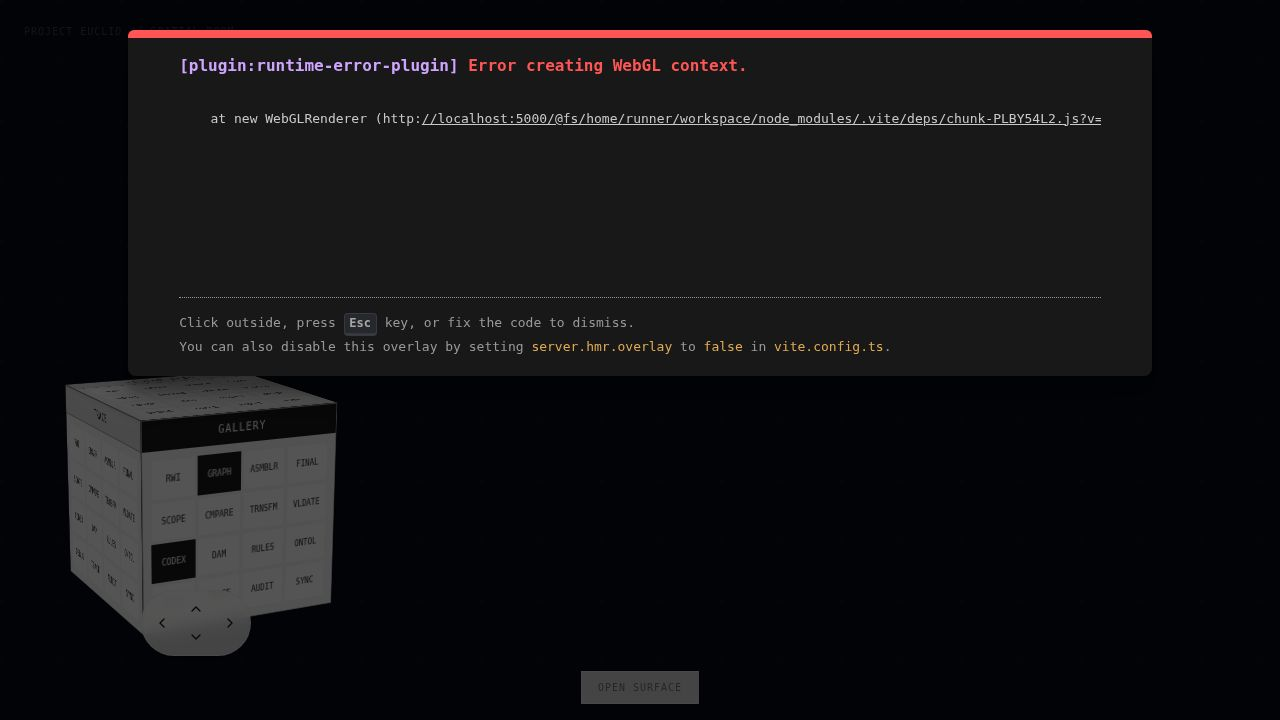
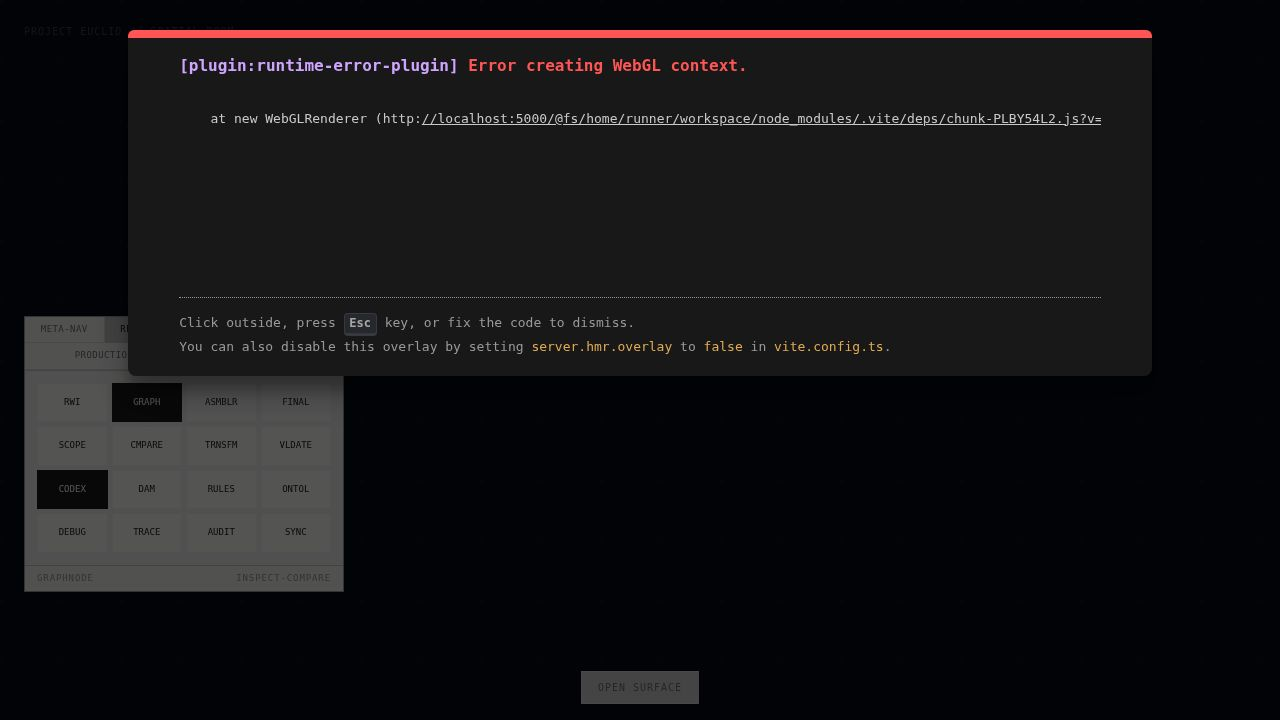
Remove persistent branding and simplify interactive elements on the canvas
Removes the "MORPHOLOGY" title overlay and the DockContainer from InfiniteCanvas.tsx, and refactors PrismCube.tsx to use a simpler workspace selection mechanism.

Replit-Commit-Author: Agent
Replit-Commit-Session-Id: 0d00d434-be47-4a2b-b53d-cc99ae812125
Replit-Commit-Checkpoint-Type: full_checkpoint
Replit-Commit-Event-Id: a1974f45-a87d-4491-b77a-21a2447602fe
Replit-Commit-Screenshot-Url: https://storage.googleapis.com/screenshot-production-us-central1/83ee72e2-2eb7-40ef-ab99-fc5b93d9bf2b/0d00d434-be47-4a2b-b53d-cc99ae812125/g4WBXSQ
Replit-Helium-Checkpoint-Created: true

Changed region(s): [[0.0, 0.4278, 0.2812, 0.9167]]

diff --git a/client/src/studio/prism/PrismCube.tsx b/client/src/studio/prism/PrismCube.tsx
@@ -1,27 +1,15 @@
-import { useState } from 'react';
 import { useStudioStore, EngineId, FunctionalityId } from '../state/useStudioStore';
-import { ChevronLeft, ChevronRight, ChevronUp, ChevronDown } from 'lucide-react';
 
 export function PrismCube() {
   const { prismContext, setPrismContext } = useStudioStore();
   
-  // Track continuous rotation to avoid snapping back when angles pass 360
-  const [rotation, setRotation] = useState({ x: -15, y: 25 });
-
-  const handleRotate = (direction: 'left' | 'right' | 'up' | 'down') => {
-    if (direction === 'left') setRotation(r => ({ ...r, y: r.y - 90 }));
-    if (direction === 'right') setRotation(r => ({ ...r, y: r.y + 90 }));
-    if (direction === 'up') setRotation(r => ({ ...r, x: r.x + 90 }));
-    if (direction === 'down') setRotation(r => ({ ...r, x: r.x - 90 }));
-  };
-
-  const faces = [
-    { id: 'meta-navigation', label: 'Meta-Nav', transform: 'translateZ(100px)' },
-    { id: 'research-drafting', label: 'Research', transform: 'rotateY(90deg) translateZ(100px)' },
-    { id: 'drafting-building', label: 'Drafting', transform: 'rotateY(180deg) translateZ(100px)' },
-    { id: 'building-production', label: 'Building', transform: 'rotateY(-90deg) translateZ(100px)' },
-    { id: 'production-final', label: 'Production', transform: 'rotateX(90deg) translateZ(100px)' },
-    { id: 'inspect-repair-debug', label: 'Debug', transform: 'rotateX(-90deg) translateZ(100px)' },
+  const workspaces = [
+    { id: 'meta-navigation', label: 'Meta' },
+    { id: 'research-drafting', label: 'Research' },
+    { id: 'drafting-building', label: 'Draft' },
+    { id: 'building-production', label: 'Build' },
+    { id: 'production-final', label: 'Produce' },
+    { id: 'inspect-repair-debug', label: 'Debug' },
   ];
 
   // Map 16 tools to combinations of engine and functionality for the store
@@ -44,81 +32,67 @@ export function PrismCube() {
     { label: "Sync", engine: "frontend-final-use", functionality: "search-scope" }
   ];
 
-  const handleCubieClick = (workspaceId: string, tool: typeof tools[0]) => {
-    // Update the global state with the new context
+  const handleToolClick = (tool: typeof tools[0]) => {
     setPrismContext({
-      workspace: workspaceId as any,
       engine: tool.engine,
       functionality: tool.functionality
     });
-    
-    // Ensure dock is visible when a tool is selected
-    useStudioStore.setState({ isDockVisible: true });
+  };
+
+  const handleWorkspaceChange = (workspaceId: string) => {
+    setPrismContext({ workspace: workspaceId as any });
   };
 
   return (
-    <div 
-      className="fixed bottom-32 left-24 z-50 pointer-events-auto"
-      style={{ perspective: '1200px' }}
-    >
-      <div 
-        className="w-[200px] h-[200px] relative transition-transform duration-700 ease-out"
-        style={{ 
-          transformStyle: 'preserve-3d',
-          transform: `rotateX(${rotation.x}deg) rotateY(${rotation.y}deg)`
-        }}
-      >
-        {faces.map((face) => (
-          <div 
-            key={face.id}
-            className="absolute w-full h-full bg-background/95 border border-primary/40 backdrop-blur-md flex flex-col overflow-hidden shadow-[0_0_30px_rgba(var(--primary),0.1)]"
-            style={{ 
-              transform: face.transform,
-              backfaceVisibility: 'hidden'
-            }}
-          >
-            {/* Face Header */}
-            <div className={`text-center font-mono text-[10px] uppercase tracking-widest py-1.5 shadow-inner border-b transition-colors
-              ${prismContext.workspace === face.id 
-                ? 'bg-primary text-primary-foreground border-primary' 
-                : 'bg-primary/10 text-primary border-primary/30'}`}
-            >
-              {face.label}
-            </div>
-            
-            {/* 16 Cubies (4x4 Grid) */}
-            <div className="grid grid-cols-4 grid-rows-4 gap-[2px] flex-1 p-2 bg-muted/20">
-              {tools.map((tool, i) => {
-                const isActive = prismContext.workspace === face.id && 
-                               prismContext.engine === tool.engine && 
-                               prismContext.functionality === tool.functionality;
-                
-                return (
-                  <button 
-                    key={i} 
-                    className={`border flex items-center justify-center text-[8px] font-mono transition-all duration-200 uppercase
-                      ${isActive 
-                        ? 'bg-primary text-primary-foreground border-primary shadow-[0_0_10px_rgba(var(--primary),0.5)]' 
-                        : 'bg-background/80 hover:bg-primary/50 text-foreground border-border/50'}`}
-                    onClick={() => handleCubieClick(face.id, tool)}
-                  >
-                    {tool.label}
-                  </button>
-                );
-              })}
-            </div>
-          </div>
-        ))}
-      </div>
-
-      {/* Orbit Controls */}
-      <div className="absolute -bottom-16 left-1/2 -translate-x-1/2 flex gap-2 bg-background/80 backdrop-blur-sm border border-border/50 p-1.5 rounded-full shadow-xl">
-        <button onClick={() => handleRotate('left')} className="p-1.5 text-primary hover:bg-primary/20 rounded-full transition-colors"><ChevronLeft className="w-4 h-4" /></button>
-        <div className="flex flex-col gap-1">
-          <button onClick={() => handleRotate('up')} className="p-1 text-primary hover:bg-primary/20 rounded-full transition-colors"><ChevronUp className="w-4 h-4" /></button>
-          <button onClick={() => handleRotate('down')} className="p-1 text-primary hover:bg-primary/20 rounded-full transition-colors"><ChevronDown className="w-4 h-4" /></button>
+    <div className="fixed bottom-12 left-6 z-50 pointer-events-auto">
+      <div className="w-[300px] bg-[#0A0F1C]/95 border border-[#4466FF]/30 backdrop-blur-md shadow-[0_0_30px_rgba(68,102,255,0.1)] flex flex-col rounded-sm overflow-hidden">
+        
+        {/* Workspace Tabs - Clean, no extra whitespace */}
+        <div className="flex bg-[#050A15]/80">
+          {workspaces.map((ws) => {
+            const isActive = prismContext.workspace === ws.id;
+            return (
+              <button
+                key={ws.id}
+                onClick={() => handleWorkspaceChange(ws.id)}
+                className={`py-2 px-0 flex-1 text-[8px] font-mono uppercase tracking-widest transition-colors border-r border-b border-[#4466FF]/10 last:border-r-0
+                  ${isActive 
+                    ? 'bg-[#4466FF]/20 text-[#88aaff] border-b-[#88aaff] shadow-inner font-bold' 
+                    : 'text-[#88aaff]/50 hover:text-[#88aaff] hover:bg-[#4466FF]/10'}`}
+              >
+                {ws.label}
+              </button>
+            );
+          })}
         </div>
-        <button onClick={() => handleRotate('right')} className="p-1.5 text-primary hover:bg-primary/20 rounded-full transition-colors"><ChevronRight className="w-4 h-4" /></button>
+
+        {/* Tools Grid - Tight packing */}
+        <div className="bg-[#050A15]">
+          <div className="grid grid-cols-4 grid-rows-4 gap-px bg-[#4466FF]/20 border-b border-[#4466FF]/20">
+            {tools.map((tool, i) => {
+              const isActive = prismContext.engine === tool.engine && 
+                             prismContext.functionality === tool.functionality;
+              
+              return (
+                <button 
+                  key={i} 
+                  className={`flex items-center justify-center py-2.5 text-[8px] font-mono transition-all duration-200 uppercase
+                    ${isActive 
+                      ? 'bg-[#4466FF]/30 text-white shadow-[0_0_15px_rgba(68,102,255,0.4)] z-10 font-bold border border-[#88aaff]/50' 
+                      : 'bg-[#0A0F1C] hover:bg-[#4466FF]/20 text-[#88aaff]/70'}`}
+                  onClick={() => handleToolClick(tool)}
+                >
+                  {tool.label}
+                </button>
+              );
+            })}
+          </div>
+        </div>
+        
+        <div className="px-3 py-1.5 bg-[#050A15]/90 text-[8px] font-mono text-[#88aaff]/50 uppercase tracking-widest flex justify-between">
+          <span>{prismContext.engine}</span>
+          <span>{prismContext.functionality}</span>
+        </div>
       </div>
     </div>
   );

diff --git a/client/src/studio/canvas/InfiniteCanvas.tsx b/client/src/studio/canvas/InfiniteCanvas.tsx
@@ -2,7 +2,6 @@ import { useRef, useEffect } from 'react';
 import { useSpring, animated } from '@react-spring/web';
 import { useGesture } from '@use-gesture/react';
 import { PrismCube } from '../../studio/prism/PrismCube';
-import { DockContainer } from '../../studio/dock/DockContainer';
 import InteractiveGeometryResearchEngine from './InteractiveGeometryResearchEngine';
 import { useStudioStore } from '../../studio/state/useStudioStore';
 
@@ -50,11 +49,12 @@ export default function InfiniteCanvas() {
   return (
     <div 
       ref={containerRef}
-      className="fixed inset-0 w-full h-full text-foreground overflow-hidden cursor-move"
+      className="fixed inset-0 w-full h-full overflow-hidden cursor-move dark"
       style={{
         backgroundColor: '#050A15', // Very dark blue
         backgroundImage: 'radial-gradient(circle at 1px 1px, rgba(255, 255, 255, 0.05) 1px, transparent 0)',
-        backgroundSize: '60px 60px'
+        backgroundSize: '60px 60px',
+        color: 'white'
       }}
     >
       {/* 3D Engine is placed underneath the UI */}
@@ -71,25 +71,15 @@ export default function InfiniteCanvas() {
           pointerEvents: 'none' // Allow clicks to pass through to the 3D canvas
         }}
       >
-        <div className="absolute inset-0 relative flex items-center justify-center pointer-events-none">
-          <div className="relative w-full h-full max-w-4xl max-h-[800px] flex items-center justify-center opacity-80">
-            <div className="absolute inset-0 flex flex-col items-center justify-center text-center p-8 mt-12 mix-blend-screen pointer-events-none">
-              <h1 className="text-7xl font-display font-light tracking-tighter text-transparent bg-clip-text bg-gradient-to-b from-white to-white/40 mb-4 drop-shadow-[0_0_15px_rgba(255,255,255,0.2)]">MORPHOLOGY</h1>
-              <p className="font-mono text-sm tracking-[0.3em] uppercase text-primary/80">Monumental Brutalism & Geometric Forms</p>
-            </div>
-          </div>
-        </div>
       </animated.div>
       
       {/* 3D Prism Context Selector */}
       <div className="pointer-events-none absolute inset-0 z-50">
         <PrismCube />
-        {/* Bottom Dock Tray */}
-        <DockContainer />
       </div>
       
       {/* Absolute HUD */}
-      <div className="fixed top-6 left-6 font-mono text-[10px] text-muted-foreground/50 uppercase tracking-widest pointer-events-none z-50">
+      <div className="fixed top-6 left-6 font-mono text-[10px] text-white/50 uppercase tracking-widest pointer-events-none z-50">
         Project EUCLID // Spatial Room
       </div>
     </div>
